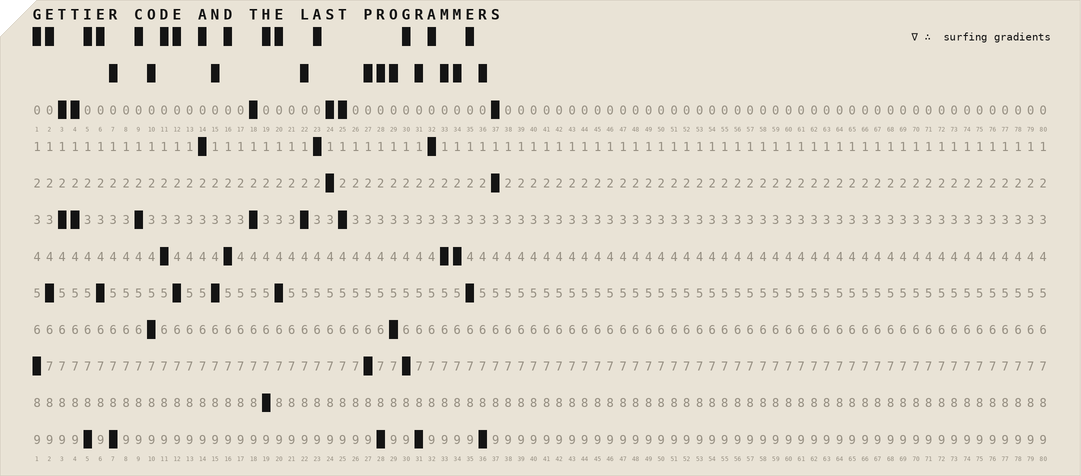
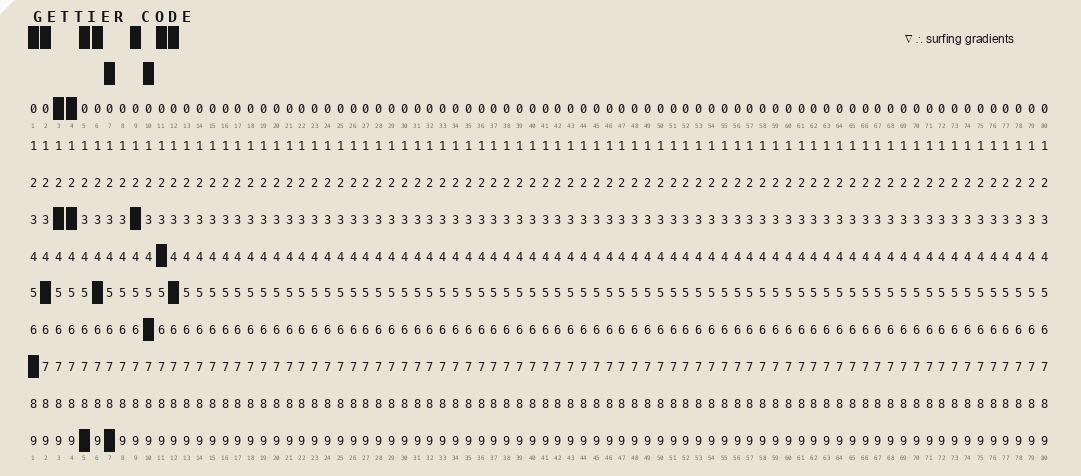
Rewrite Part 1 as Gettier Code
Cut the Socrates opening, the five-generations history and the Margaret
Hamilton image. The essay is now about one thing: code that is right for
the wrong reasons, why agents produce it by construction, how it differs
from buggy code, and the one question that catches it. Interactives
removed from Part 1. New punch-card cover with the title Hollerith-punched.

Parts 2 and 3 updated to link the new section anchors and the new title.
MDX now renders through a client component so essay components with
propTypes no longer break the server build.

diff --git a/src/app/posts/[slug]/page.tsx b/src/app/posts/[slug]/page.tsx
@@ -1,29 +1,11 @@
 import { RSS_ALTERNATE, WEBSITE_HOST_URL } from '@/lib/constants'
 import { allPosts } from 'contentlayer/generated'
 import { format, parseISO } from 'date-fns'
-import type { MDXComponents } from 'mdx/types'
 import type { Metadata } from 'next'
-import { useMDXComponent } from 'next-contentlayer/hooks'
 import { FadeImage } from '@/components/FadeImage'
-import Link from 'next/link'
+import { MdxBody } from '@/components/MdxBody'
 import { notFound } from 'next/navigation'
-import {
-  AcceptStream,
-  Autopilot,
-  Break,
-  Debt,
-  FindTheBug,
-  FiveWays,
-  Generations,
-  Indifferent,
-  Literacy,
-  Note,
-  Plausible,
-  Progress,
-  Samples,
-  Series,
-  Term,
-} from '@/components/essay'
+import { Progress } from '@/components/essay'
 
 export async function generateStaticParams() {
   return allPosts.map((post) => ({
@@ -68,34 +50,12 @@ export async function generateMetadata({
   }
 }
 
-// Define your custom MDX components.
-const mdxComponents: MDXComponents = {
-  a: ({ href, children }) => <Link href={href as string}>{children}</Link>,
-  Image: (props) => <FadeImage {...(props as any)} />,
-  Break,
-  Generations,
-  Plausible,
-  Samples,
-  Indifferent,
-  Literacy,
-  Autopilot,
-  Debt,
-  Term,
-  Note,
-  FiveWays,
-  AcceptStream,
-  FindTheBug,
-  Series,
-}
-
 const PostLayout = ({ params }: { params: { slug: string } }) => {
   const post = allPosts.find((post) => post._raw.flattenedPath === params.slug)
 
   if (!post) {
     notFound()
   }
-
-  const MDXContent = useMDXComponent(post.body.code)
 
   const postUrl = `${WEBSITE_HOST_URL}${post.url}`
   const blogPosting = {
@@ -163,7 +123,7 @@ const PostLayout = ({ params }: { params: { slug: string } }) => {
         ) : null}
       </header>
       <article className="post">
-        <MDXContent components={mdxComponents} />
+        <MdxBody code={post.body.code} />
       </article>
     </div>
   )

diff --git a/src/components/MdxBody.tsx b/src/components/MdxBody.tsx
@@ -1,0 +1,50 @@
+'use client'
+
+import { useMDXComponent } from 'next-contentlayer/hooks'
+import type { MDXComponents } from 'mdx/types'
+import Link from 'next/link'
+import { FadeImage } from '@/components/FadeImage'
+import {
+  AcceptStream,
+  Autopilot,
+  Break,
+  Debt,
+  FindTheBug,
+  FiveWays,
+  Generations,
+  Indifferent,
+  Literacy,
+  Note,
+  Plausible,
+  Samples,
+  Series,
+  Term,
+} from '@/components/essay'
+
+// The post body is compiled MDX that references the essay's interactive (client)
+// components. Rendering it from a client component keeps those references real
+// components rather than server-side client-module proxies, which the MDX runtime
+// cannot inspect ("Cannot access X.propTypes on the server").
+const mdxComponents: MDXComponents = {
+  a: ({ href, children }) => <Link href={href as string}>{children}</Link>,
+  Image: (props) => <FadeImage {...(props as any)} />,
+  Break,
+  Generations,
+  Plausible,
+  Samples,
+  Indifferent,
+  Literacy,
+  Autopilot,
+  Debt,
+  Term,
+  Note,
+  FiveWays,
+  AcceptStream,
+  FindTheBug,
+  Series,
+}
+
+export function MdxBody({ code }: { code: string }) {
+  const MDXContent = useMDXComponent(code)
+  return <MDXContent components={mdxComponents} />
+}

diff --git a/src/components/essay/Series.tsx b/src/components/essay/Series.tsx
@@ -3,7 +3,7 @@ import Link from 'next/link'
 // The three-part series, shown at the top and bottom of each part.
 // `short` is the label used in the compact one-line nav at the top of a post.
 const PARTS = [
-  { href: '/posts/the-last-programmers', title: 'Gettier Code and the Last Programmers', short: 'Gettier Code' },
+  { href: '/posts/the-last-programmers', title: 'Gettier Code', short: 'Gettier Code' },
   { href: '/posts/slot-machine-coding', title: 'Slot-Machine Coding', short: 'Slot-Machine Coding' },
   { href: '/posts/after-us', title: 'After Us', short: 'After Us' },
 ]
